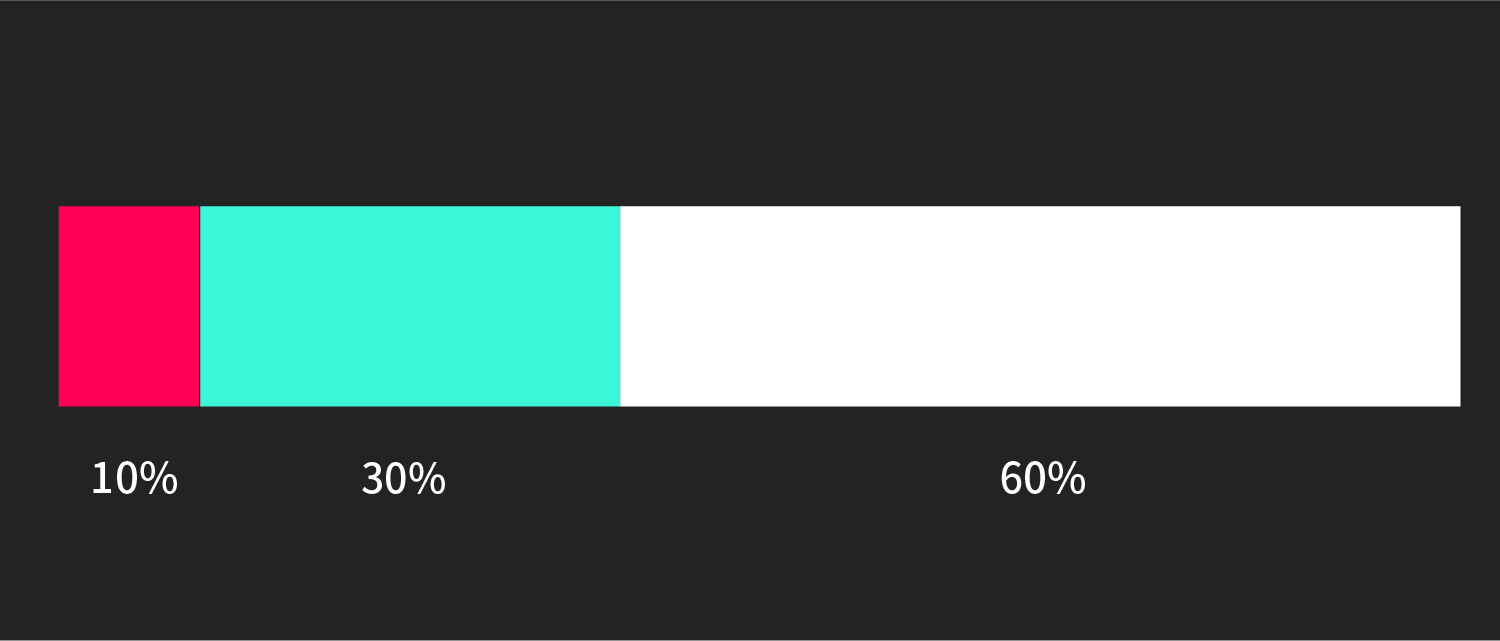
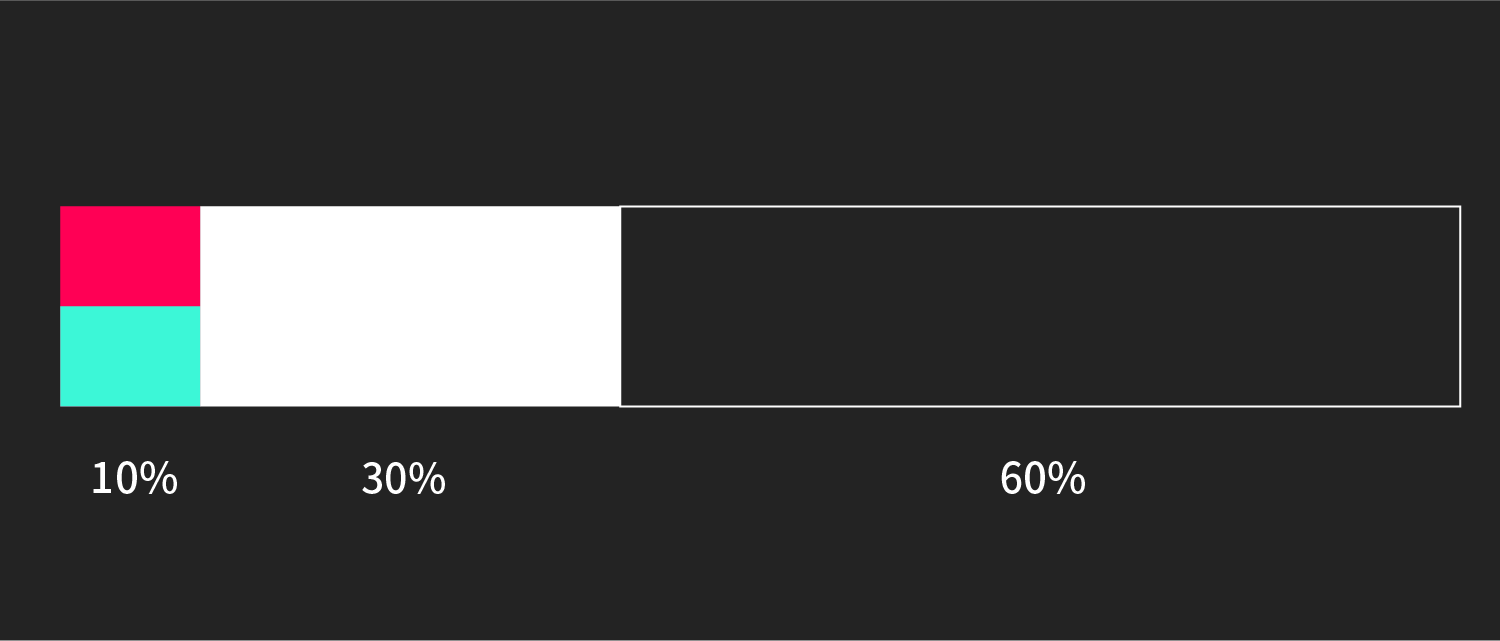
내용 업데이트

Changed region(s): [[0.0307, 0.312, 0.9813, 0.6552]]

diff --git a/color.html b/color.html
@@ -55,7 +55,7 @@
             <div class="article-title">
                 색</div>
             <div class="article-h1">
-                색은 눈이 가장 빠르게 받아들이는 시각 언어입니다. 사과가 엄청난 속도로 눈 앞을 지나가면 머릿속에는 불그스름한 무언가가 지나갔다고 기억하듯이 말입니다. 서비스에서는 특정 요소를 강조하거나 다른 요소와 확실하게 구분해야 할 필요가 있을 때 사용합니다.
+                색은 강한 자극을 주는 시각 언어입니다. 브랜딩에서 정의하는 색과 연관이 깊으며, 기능적으로 서비스 내부에서는 특정 요소를 강조하거나 다른 요소와 확실하게 구분해야 할 필요가 있을 때 사용합니다.
             </div>
             <img class="article-img" src="  ./img/design-system/color/color-main@2x.png">
 
@@ -67,9 +67,9 @@
             <img class="article-img" src="./img/design-system/color/brand@2x.png">
              <div class="article-h1">
                 <ul>
-                    <li><b>주색 Primary:</b> 색이 필요한 곳에 가장 많이 사용할 주요 색</li>
-                    <li><b>보조색 Secondary:</b> 특정 페이지에서 강조해야할 필요가 있을 때를 위한 색 </li>
-                    <li><b>흑백 Black&White:</b> 주로 배경과 글에 쓰이며, 브랜드 내의 가장 밝은 색과 가장 어두운 색</li>
+                    <li><b>주색:</b> 색이 필요한 곳에 가장 많이 사용할 주요 색</li>
+                    <li><b>보조색:</b> 특정 페이지에서 강조해야할 필요가 있을 때를 위한 색 </li>
+                    <li><b>흑백:</b> 주로 배경과 글에 쓰이며, 브랜드 내의 가장 밝은 색과 가장 어두운 색</li>
                 </ul>
             </div>
             
@@ -90,14 +90,14 @@
             <div class="article-title">
             색 비율</div>
             <div class="article-h1">
-             인테리어에서 사용되는 60-30-10 법칙을 활용하는 것도 좋습니다. 60%는 가장 넓은 면적에 사용되는 색을 사용하며 30%는 주색, 10%는 보조색을 사용합니다. (인테리어와는 공간의 맥락이 다르기 때문에 변형된 법칙입니다.)
+             인테리어에서 사용되는 60-30-10 법칙을 활용하는 것도 좋습니다. 60%는 배경색 30%는 글자 혹은 이미지와 같이 화면에서 반복적으로 쓰이는 색, 10%는 주색과 보조색을 사용합니다. (인테리어와는 공간의 맥락이 다르기 때문에 변형된 법칙입니다.)
             </div>
             <img class="article-img" src="./img/design-system/color/color-ratio@2x.png">
             
             <div class="article-title">
                 색의 요소</div>
             <div class="article-h1">
-                가장 직관적으로 구분할 수 있는 방법은 HSB 입니다. Hue(색조), Saturation(채도), Brightness(밝기)로 우리가 실제로 경험하는 색의 변화를 다루기에 가장 편한 개념입니다. 실제 코드에서는 편의를 위해 Hex와 RGBA로 작업하지만, 사용할 색을 정할 때는 HSB로 하는게 편합니다.
+                가장 직관적으로 구분할 수 있는 방법은 HSB 입니다. Hue(색조), Saturation(채도), Brightness(밝기)로 우리가 실제로 경험하는 색의 변화를 다루기에 가장 편한 개념입니다. 실제 코드에서는 편의를 위해 Hex와 RGBA로 작업하지만, 사용할 색을 정할 때는 HSB가 직관적입니다.
             </div>
 
             <img class="article-img" src="  ./img/design-system/color/elemental@2x.png">
@@ -106,26 +106,26 @@
             <div class="article-title">
                 한가지 색 다양하게 쓰기</div>
             <div class="article-h1">
-                여러 색을 사용하고 싶은데 그렇다고 무지개 색을 쓰기는 어렵습니다. 색조의 변화는 눈에 많은 부담을 주기 떄문에 되도록 <b>밝기 - 채도 - 색조</b> 순서로 다양한 색을 정하는 것이 좋습니다. 먼저 눈에 부담이 적은 밝기를 조절해봅니다.
+                여러 색을 사용하고 싶은데 그렇다고 무지개 색을 쓰기는 어렵습니다. 색조의 변화는 눈에 많은 부담을 주기 때문에 되도록 <b>밝기 - 채도 - 색조</b> 순서로 색을 사용하는 것이 좋습니다. 먼저 눈에 부담이 적은 밝기를 조절해봅니다.
             </div>
 
             <img class="article-img" src="./img/design-system/color/variation@2x.png">
 
             <div class="article-h1">
-                밝기 차이만으로도 쓸 수 있는 색이 늘어났습니다. 바로 디자인에 적용해도 큰 문제는 없지만 더 자연스럽고 풍부한 느낌을 주고 싶네요. 밝기는 조절했으니까 색조와 채도를 조절해야할 것 같네요. 완전히 다른 색조으로 느껴지지 않는 범위 안에서 두 수치를 조절해봤습니다.
+                밝기 차이만으로도 쓸 수 있는 색이 늘어났습니다. 바로 디자인에 적용해도 큰 문제는 없지만 더 자연스럽고 풍부한 느낌을 주고 싶네요. 밝기는 조절했으니까 색조와 채도를 조절해야할 것 같습니다. 완전히 다른 색조으로 느껴지지 않는 범위 안에서 두 수치를 조절해봤습니다.
             </div>
 
            <img class="article-img" src="./img/design-system/color/variation2@2x.png">
 
             <div class="article-h1">
-                더 풍부한 느낌이 듭니다! 밝기는 직관적으로 밝고 어둡게 하면 되는데 색조와 채도는 색의 변화에 어떤 영향을 끼칠까요?
+                더 풍부한 느낌이 듭니다. 밝기는 직관적으로 밝고 어둡게 하면 되는데 색조와 채도는 색의 변화에 어떤 영향을 끼칠까요?
             </div>
 
             <div class="article-title">
                 자연에서의 색 변화</div>
 
             <div class="article-h1">
-                실제 자연에서는 빛이 강해지면 물체의 채도가 약해집니다.(사과 바로 앞에 손전등을 댔을 때를 상상해보세요.) 색은 물질에 빛이 반사되서 보이는데 눈이 구분할 수 있는 범위를 넘어 반사량이 너무 많으면 하얗게, 반사량이 너무 적으면 어둡게 보입니다. 물체의 색이 밝아지면 <b>채도 감소, 밝기 증가</b> 어두워지면 <b>채도 증가, 밝기 감소</b>입니다.
+                실제 자연에서는 빛이 강해지면 물체의 채도가 약해집니다.(사과 바로 앞에 손전등을 댔을 때를 상상해보세요) 색은 물질에 빛이 반사되서 보이는데 눈이 구분할 수 있는 범위를 넘어 반사량이 너무 많으면 하얗게, 반사량이 너무 적으면 어둡게 보입니다. 물체의 색이 밝아지면 <b>채도 감소, 밝기 증가</b>이며 어두워지면 <b>채도 증가, 밝기 감소</b>인 것입니다.
             </div>
             <img class="article-img" src="./img/design-system/color/principle@2x.png">
             <img class="article-img" src="./img/design-system/color/reflection_absorption@2x.png">
@@ -133,7 +133,7 @@
             <div class="article-title">
                 색조 자체의 밝기</div>
             <div class="article-h1">
-                채도와 명도가 밝기에 어떻게 영향을 끼치는지는 알겠는데 색조 자체의 밝기를 알기가 쉽지 않습니다. 노란색은 밝아서 흰색 바탕에 쓰기 힘들고 파랑색은 어두워 검은 배경에 쓰기 어려운 것 정도는 알겠는데 다른 색들은 어떻게 해야할지 잘 모르겠네요. 스크린에서 보이는 색조 자체의 밝기는 어떻게 알 수 있을까요?
+                노란색은 밝아서 흰색 바탕에 쓰기 힘들고 파랑색은 어두워 검은 배경에 쓰기 어려운 것 정도는 관찰할 수 있지만 다른 색상간의 밝기 차이를 상상하기는 어렵습니다. 스크린에서 보이는 색조 자체의 밝기는 어떻게 알 수 있을까요?
             </div>
 
             <img class="article-img" src="./img/design-system/color/hue-luminosity@2x.png">
@@ -145,7 +145,7 @@
             <img class="article-img" src="./img/design-system/color/hue-luminosity-graph@2x.png">
 
             <div class="article-h1">
-                각 수치별로 그래프를 비교했을 때 Red Green Blue로 갈수록 어두어지고 Cyan Magenta Yellow 로 갈수록 밝아집니다. 매우 익숙한 느낌이 드네요. RGB와 CMY가 기준입니다. 스크린은 빛의 삼원색을 사용하기 때문에 색이 많이 섞일수록 흰색에 가까워지므로 원색이 가장 많이 섞인 CMY가 밝아보이는 것입니다.
+                각 수치별로 그래프를 비교했을 때 Red Green Blue로 갈수록 어두어지고 Cyan Magenta Yellow 로 갈수록 밝아집니다. RGB와 CMY가 기준으로 스크린은 빛의 삼원색을 사용하기 때문에 색이 많이 섞일수록 흰색에 가까워지므로 원색이 가장 많이 섞인 CMY가 밝아지는 것입니다.
             </div>
 
 

diff --git a/pattern.html b/pattern.html
@@ -1,7 +1,19 @@
 <!DOCTYPE html>
 <html xmlns="http://www.w3.org/1999/xhtml">
 
-<head><!-- Global site tag (gtag.js) - Google Analytics --> <script async src="https://www.googletagmanager.com/gtag/js?id=UA-50444148-1"></script> <script>   window.dataLayer = window.dataLayer || [];   function gtag(){dataLayer.push(arguments);}   gtag('js', new Date());    gtag('config', 'UA-50444148-1'); </script>
+<head>
+    <!-- Global site tag (gtag.js) - Google Analytics -->
+    <script async src="https://www.googletagmanager.com/gtag/js?id=UA-50444148-1"></script>
+    <script>
+        window.dataLayer = window.dataLayer || [];
+
+        function gtag() {
+            dataLayer.push(arguments);
+        }
+        gtag('js', new Date());
+        gtag('config', 'UA-50444148-1');
+
+    </script>
     <!-- meta preset-->
     <meta charset="utf-8">
     <meta name="viewport" content="user-scalable=no, initial-scale=1">
@@ -51,9 +63,9 @@
     <div id="nav"></div>
 
     <div class="article-outer">
-         <div id="submenu-theory"></div>
+        <div id="submenu-theory"></div>
         <div class="article-container">
-            
+
             <div class="article-title">
                 패턴</div>
             <div class="article-h1">
@@ -108,7 +120,7 @@
             <div class="article-title">
                 맥락 짜기</div>
             <div class="article-h1">
-                사용자가 속해 있는 상황을 정리합니다. 육하원칙에 따라 정리하는 것이 편리하며 웹, 모바일과 같이 환경이 제한적일 경우에는 다른 원칙보다 "무엇을 어떻게"가 중요합니다. 이 과정을 통해 '목적'을 정의합니다.
+                사용자가 속해 있는 상황을 정리합니다. 육하원칙에 따라 정리하는 것이 편리하며 웹, 모바일과 같이 환경이 제한적일 경우(스마트폰이나 모니터로 서비스를 이용하는 환경)에는 다른 원칙보다 "무엇을 어떻게"에 집중합니다. 이 과정을 통해 '목적'을 정의합니다.
             </div>
             <img class="article-img" src="./img/design-system/pattern/pattern_context@2x.png">
 
@@ -123,11 +135,11 @@
             <div class="article-title">
                 경우의 수</div>
             <div class="article-h1">
-                흐름에서 찾은 "단계별 목적"에 맞춰 발생할 수 있는 경우의 수를 예측합니다. 서비스에서는 사용자의 행동에 의해 많은 경우의 수가 발생합니다. 어떤 변수가 있는지 찾아낸 뒤 그에 따른 예측 결과를 정리합니다. 
+                흐름에서 찾은 "단계별 목적"에 맞춰 발생할 수 있는 경우의 수를 예측합니다. 서비스에서는 사용자의 행동에 의해 많은 경우의 수가 발생합니다. 단계별로 어떤 변수가 있는지 찾아내고 예측되는 결과를 정리합니다.
             </div>
             <img class="article-img" src="./img/design-system/pattern/pattern_variable@2x.png">
-            
-            
+
+
             <div class="article-title">
                 알고리즘 짜기(선택적)</div>
             <div class="article-h1">
@@ -139,26 +151,30 @@
             <div class="article-title">
                 형태 짜기</div>
             <div class="article-h1">
-                "흐름"과 "경우의 수"를 기준으로 페이지를 제작합니다. 예측되는 화면 사이즈에 어떤 기능을 수행할지 상상합니다. 해당 영역에 가장 적합한 컴포넌트를 적용한뒤 변수에 따른 변화를 정합니다.
-                
-                지속적으로 검색할 수 있도록 언제 어디서나 검색을 발견할 수 있어야합니다.
-                
-                형태를 짠 이후에는 상태에 대해서 표시되는 방식을 정합니다. 입력-출력 만약 검색이 중요하다면 검색을 계속 할 수 있는 형태여야 합니다. 언제 어디서나 검색을 발견할 수 있어야합니다.
-                기본 시나리오로 텍스트 필드에 자신의 단서를 입력하고 서비스는 그에 대한 피드백을 줍니다.
+                "흐름"과 "경우의 수"를 기준으로 페이지를 제작합니다. 기준이 되는 화면 사이즈에서 영역별로 달성해야할 단계별 목적을 지정합니다. 해당 영역에 단계별 목적을 달성할 수 있는 적합한 컴포넌트를 적용한뒤 변수를 고려하여 제작합니다.
             </div>
-            
+
             <img class="article-img" src="./img/design-system/pattern/pattern_conceptbox@2x.png">
-            
-            
-            
-             <div class="article-title">
+
+            <div class="article-h1">
+                <ul>
+                    <li><b>단어 입력: </b> 타 플랫폼 및 서비스에서 반복적으로 사용되는 컴포넌트로 상단 고정</li>
+                    <li><b>결과 확인:</b> 최대한 많은 결과를 보여주기 위해 넓은 영역 지정</li>
+                    <li><b>선택 후 재생:</b> 포스터와 제목 만으로도 영화를 선택하고 재생할 수 있지만 더 자세한 내용을 확인하고 재생하는 경우를 위해 최대한 많은 정보를 줄 수 있도록 별도 페이지 제작</li>
+
+                </ul>
+            </div>
+
+
+
+            <div class="article-title">
                 레이아웃 짜기</div>
             <div class="article-h1">
-                각 페이지에서 필요한 목적을 달성하기 위해 컴포넌트를 배치합니다. 지속적으로 검색할 수 있도록 언제 어디서나 검색을 발견할 수 있어야합니다. 형태를 짠 이후에는 상태에 대해서 표시되는 방식을 정합니다. 입력-출력 만약 검색이 중요하다면 검색을 계속 할 수 있는 형태여야 합니다. 언제 어디서나 검색을 발견할 수 있어야합니다.
+                형태에 대한 개념이 정리가 된 뒤에는 시각적인 컴포넌트를 배치합니다. 배치만으로도 GUI 디자인이 완성됩니다.
             </div>
-             <img class="article-img" src="./img/design-system/pattern/pattern_visualize@2x.png">
-            
-            
+            <img class="article-img" src="./img/design-system/pattern/pattern_visualize@2x.png">
+
+
 
             <div class="sidebar-con">
                 <div class="sidebar-wrapper">
@@ -170,21 +186,21 @@
                     </div>
                 </div>
             </div>
-            
-             <!--pagination -->
-                <hr>
-                <div class="pagination-left" onclick="location.href='preference.html';">
-                   <img class="pagination-icon" src="./img/icon/icon_previous.svg">
-                    <span class="pagination-text">사전 설정</span>
-                </div>
 
-                <div class="pagination-right" onclick="location.href='component.html';">
-                    <span class="pagination-text">컴포넌트</span>
-                    <img class="pagination-icon" src="./img/icon/icon_next.svg">
-                </div>
-            
-            
-            
+            <!--pagination -->
+            <hr>
+            <div class="pagination-left" onclick="location.href='preference.html';">
+                <img class="pagination-icon" src="./img/icon/icon_previous.svg">
+                <span class="pagination-text">사전 설정</span>
+            </div>
+
+            <div class="pagination-right" onclick="location.href='component.html';">
+                <span class="pagination-text">컴포넌트</span>
+                <img class="pagination-icon" src="./img/icon/icon_next.svg">
+            </div>
+
+
+
         </div>
     </div>
     <script src="js/index.js" type="text/javascript" charset="utf-8"></script>

diff --git a/service-design.html b/service-design.html
@@ -70,7 +70,7 @@
                <div class="article-title">
                 디자인 툴</div>
             <div class="article-h1">
-                디자이너의 역할이 확장되면서 필요한 기능에 집중한 툴들이 많이 개발되었습니다. 어느정도 공부가 필요하던 이전과 다르게 점점 더 쉽고 편하게 서비스를 디자인할 수 있도록 발전하고 있습니다. 
+                디자이너의 역할이 확장되면서 단계별로 필요한 기능에 특화된 툴이 많이 개발됐습니다.
             </div>
 
                 <div class="wrapper" style="margin:10px 0px;float:none;">
@@ -115,19 +115,19 @@
              
                 <div class="article-h1" style="width:100%;float:left;">
                 <ul>
-                    <li><b>Abstract:</b> 원본을 유지하면서 다양한 버전을 만들 수 있는 툴</li>
+                    <li><b>Abstract:</b> 원본을 유지하면서 다양한 버전을 관리할 수 있는 툴</li>
                     <li><b>Photoshop:</b> 디지털 이미지와 관련된 거의 모든 작업을 할 수 있는 툴</li>
-                    <li><b>Sketch:</b> UI 디자인에 필요한 기능에 특화된 툴</li>
+                    <li><b>Sketch:</b> GUI 디자인에 필요한 기능에 특화된 툴</li>
                     <li><b>Zeplin:</b> 포토샵, 스케치와 연동되며 개발에 필요한 정보를 쉽게 확인할 수 있는 툴</li>
                     <li><b>Invision:</b> 웹, 모바일 사용 패턴을 미리 만들어볼 수 있는 툴</li>
-                    <li><b>Framer:</b> 인비전보다 더 자세한 움직임을 만들 수 있는 코드 기반 툴</li>
+                    <li><b>Framer:</b> 인비전보다 더 자세한 사용 패턴을 만들 수 있는 코드 기반 툴</li>
                 </ul>
             </div>
                 
                  <div class="article-title">
                 폴더</div>
             <div class="article-h1">
-                기준 없이 폴더를 만들면 파일이 어디에 있는지 찾기가 어려워지고 중복된 파일이 많아집니다. GUI, 프로토타이핑, 마케팅 등에 사용할 용도로 정한 폴더 구조입니다.
+                기준 없이 폴더를 사용하다 보면 파일을 찾기 어려워지고 중복된 파일이 많아집니다. 프로젝트에 사용될 GUI, 프로토타이핑, 마케팅 등 용도에 맞춰 정리한 폴더 구조입니다.
             </div>
             <img class="article-img" src=" ./img/design-system/folder.png">
 
@@ -135,7 +135,7 @@
                 <ul>
                     <li><b>design:</b> 시각적인 구현과 연관된 모든 것들</li>
                     <li><b>doc:</b> 시나리오, 조사 결과 등 내외부에서 활용되는 모든 종류의 문서</li>
-                    <li><b>resource:</b> 문서와 디자인에 사용될 수 있는 외부 자료</li>
+                    <li><b>resource:</b> 문서와 디자인에 사용될 수 있는 모든 외부 자료</li>
                 </ul>
             </div>
 

diff --git a/design-thinking.html b/design-thinking.html
@@ -56,7 +56,7 @@
             <div class="article-title">
                 디자인 사고</div>
             <div class="article-h1">
-                디자인 사고는 창조할 때 생각하는 과정입니다. 관찰을 통해 문제를 정의하고 실험을 통해 성공과 실패를 반복하며 발전해나가는 방법론입니다. 이 과정에서 정리한 내용이 여러 가능성 중에서 가장 적합한 방법을 선택하는 기준이 됩니다.<br><br> 주관, 느낌, 번뜩이는 아이디어, 천재와 같은 개념으로 오해받는 창의성을 명확하게 다루기 위한 접근 방식으로 '자신이 만들고 싶은 것'이 무엇이며 필요한 정보들이 무엇인지 명확하게 파악할 수 있습니다. 과정을 눈에 보이도록 기록해 각 단계마다 필요한 것들을 나 혹은 구성원에게 명확하게 요구할 수 있습니다.
+                디자인 사고는 무언가를 창조할 때 생각하는 과정을 뜻합니다. 관찰을 통해 문제를 정의하고 실험을 통해 성공과 실패를 반복하며 발전해나가는 방법론으로 여러 가능성 중 적합한 방법을 선택하는 기준이 됩니다.<br><br> 주관, 느낌, 번뜩이는 아이디어, 천재와 같은 개념으로 오해받는 창의성을 명확하게 다루기 위한 접근 방식으로 '자신이 만들고 싶은 것'이 무엇이며 필요한 정보들이 무엇인지 명확하게 파악할 수 있습니다. 과정을 눈에 보이도록 기록해 각 단계마다 필요한 것들을 나 혹은 구성원에게 명확하게 요구할 수 있습니다.
             </div>
             <img class="article-img" src="./img/design-system/design_thinking/thinking_main@2x.png">
 
@@ -127,8 +127,8 @@
             <div class="article-h1">
                 <ul>
                     <li><b>리소스 체크</b></li>
-                    <li><b>버전 관리</b></li>
-                    <li><b>스펙</b></li>
+                    <li><b>서비스 버전 관리</b></li>
+                    <li><b>개발 스펙</b></li>
                     <li><b>일정</b></li>
                     <li><b>제품 로드맵</b></li>
                 </ul>
@@ -153,7 +153,7 @@
             <div class="article-title">
                 결과</div>
             <div class="article-h1">
-                어떤 결과가 나왔는지 확인하는 단계입니다. 이해 단계에서 세웠던 가설에 따라 선택한 방법이 의도한대로 작동했는지 확인합니다. 만약 의도한 결과가 나오지 않았다면, 문제가 있다고 의심되는 단계부터 다시 시작합니다.
+                어떤 결과가 나왔는지 확인하는 단계입니다. 이해 단계에서 세웠던 가설에 따라 선택한 방법이 의도한대로 작동했는지 확인합니다. 의도한 결과가 나오지 않았다면 문제가 있다고 의심되는 단계를 찾고 사고 과정을 반복합니다.
             </div>
             <img class="article-img" src="./img/design-system/design_thinking/thinking_result@2x.png">
 

diff --git a/about.html b/about.html
@@ -57,7 +57,7 @@
                 </div>
 
                 <div class="article-h1">
-                    UX가 급속도로 성장하면서 다양한 디자인 원리에 대한 논의가 활발히 진행되고 있습니다. 모바일 GUI의 패턴은 거의 완성에 가까워진 것처럼 느껴집니다. 하지만 머티리얼 디자인으로 모든 모바일 앱을 만들 수 없듯이 변화된 맥락에 알맞은 새로운 디자인 언어가 필요해질 것입니다. 이때 가장 적절한 디자인을 만들기 위해서는 디자인 언어 원리를 이해해야 한다고 생각합니다.<br><br>디자인을 배우는 방법은 '흉내'와 '반복'이었습니다. 툴의 숙련도가 중요했으며 디자인 이론이 구체적으로 결과물에 어떻게 적용되는지 이해하기 어려웠습니다. 게슈탈트 이론과 모바일 앱 GUI 디자인과는 거리는 거의 태양과 해왕성 정도로 멀리 떨어져 있는 것처럼 느껴졌습니다. 이 공간에서 제가 디자인을 알아가면서 겪었던 문제들을 겪지 않고 디자인을 이해하는 데 도움이 되었으면 좋겠습니다.
+                    크게 성장한 IT 기업이 많아지면서 UX와 디자인에 대한 논의가 활발해졌습니다. 특히 모바일 GUI 패턴은 거의 완성된 것처럼 느껴집니다. 하지만 머티리얼 디자인이나 iOS 디자인 스타일로 모든 모바일 앱을 만들 수 없듯이 변화된 맥락에 알맞은 새로운 디자인 언어가 필요할 것입니다. 이때 디자이너가 가장 적절한 디자인을 선택하기 위해서는 디자인 언어의 원리를 이해해야 한다고 생각합니다.<br><br>디자인을 배우는 방법은 '흉내'와 '반복'이었습니다. 툴의 숙련도가 중요했으며 디자인 이론이 구체적으로 결과물에 어떻게 적용되는지 이해하기 어려웠습니다. 게슈탈트 이론과 모바일 앱 GUI 디자인과는 거리는 거의 태양과 해왕성 정도로 멀리 떨어져 있는 것처럼 느껴졌습니다. 이 공간에서 제가 디자인을 알아가면서 겪었던 문제들을 겪지 않고 디자인을 이해하는 데 도움이 되었으면 좋겠습니다.
                 </div>
 
                 <div class="article-h1">

diff --git a/component.html b/component.html
@@ -57,7 +57,7 @@
             <div class="article-title">
                 컴포넌트</div>
             <div class="article-h1">
-                컴포넌트는 사용자와 상호작용하는 기본적인 형태로 어느 공간에서도 기능을 수행할 수 있는 최소한의 단위입니다. 디자인 원자(Atoms)들로 구성되며 사용자의 반응과 행동을 고려해야합니다. 반복적으로 사용되어 사용자에게 익숙한 컴포넌트가 있으며 목적을 위해 재구성되거나 새로 만들어지는 컴포넌트가 있습니다.
+                컴포넌트는 사용자와 상호작용하는 기본적인 형태로 어느 공간에서도 기능을 수행할 수 있는 최소한의 단위입니다. 디자인 원자로 구성되며 사용자의 반응과 행동을 고려합니다. 반복적으로 사용되어 사용자에게 익숙한 컴포넌트가 있으며 목적을 위해 재구성되거나 새로 만들어지는 컴포넌트가 있습니다.
             </div>
             <img class="article-img" src="./img/design-system/component/component_main@2x.png">
 
@@ -132,7 +132,7 @@
                 효과 확인하기
             </div>
             <div class="article-h1">
-                 "컨텐츠 중에서 하나 골라서 재생하기" 목적을 달성하기 위해 어떤 것을 강조하고 어떤 것을 생략할지 고민하면서 시각 원리에 따라 위치와 그래픽 스타일을 변경합니다. 디자인 요소는 주변에 어떤 요소가 있느냐에 따라 효과가 다릅니다.  이 과정에서는 실제로 사용될 환경에 배치해 형태가 의도한대로 보이고 읽히는지 확인해야합니다.
+                 "컨텐츠 중에서 하나 골라서 재생하기" 목적을 달성하기 위해 어떤 것을 강조하고 어떤 것을 생략할지 고민하면서 시각 원리에 따라 위치와 그래픽 스타일을 변경합니다. 디자인 요소는 주변에 어떤 요소가 있느냐에 따라 효과가 다릅니다.  이 과정에서는 실제로 사용될 환경에 배치해 형태가 의도한대로 보이고 읽히는지 확인합니다.
             </div>
              <img class="article-img" src="./img/design-system/component/component_remove@2x.png">
 

diff --git a/typography.html b/typography.html
@@ -62,7 +62,7 @@
         <div class="article-title">
             서체 고르기</div>
         <div class="article-h1">
-            스크린에서 쓰이는 서체는 어디에나 쓸 수 있어야 합니다. 스마트폰, 스마트워치, 모니터, 티비 등 다양한 기기에 사용할 수 있어야 하며 현실적으로 사용 가능한 한글 서체는 OS 기본 서체인 애플 SD 고딕 네오, 본고딕과 오픈 소스인 나눔 글꼴, 스포카 한 산스입니다.
+            스크린에서는 스마트폰, 스마트워치, 모니터, 티비 등 다양한 기기에 사용할 수 있어야 합니다. 현실적으로 사용 가능한 한글 서체는 OS 기본 서체인 애플 SD 고딕 네오, 본고딕과 오픈 소스인 나눔 글꼴, 스포카 한 산스입니다.
         </div>
 
         <img class="article-img" src="  ./img/design-system/typography/web_font@2x.png">
@@ -95,7 +95,7 @@
         </div>
         <img class="article-img" src="  ./img/design-system/typography/example_edit@2x.png">
         <div class="article-h1">
-            훨씬 읽기 편해졌네요! 본문의 행간은 18 x 1.6 = 28.8 반올림해서 29로 조절했습니다. 인쇄 매체에서는 한 줄에 들어가는 글 개수가 65~75자가 들어가는 것을 권장하지만 폭이 좁은 스크린에서는 서체 크기가 더 중요하기 때문에 따로 조절하지 않고 줄 바꿈을 하는 편입니다.
+            훨씬 읽기 편해졌습니다. 본문의 행간은 18 x 1.6 = 28.8 반올림해서 29로 조절했습니다. 인쇄 매체에서는 한 줄에 들어가는 글 개수가 65~75자가 들어가는 것을 권장하지만 폭이 좁은 스크린에서는 서체 크기가 더 중요하기 때문에 따로 조절하지 않고 줄 바꿈을 하는 편입니다.
         </div>
 
 

diff --git a/composition.html b/composition.html
@@ -59,7 +59,7 @@
                디자인 구조</div>
 
             <div class="article-h1">
-                디자인은 어떻게 구성될까요? 이해하기 쉬운 방식으로 Bradfrost에서 제시한 Atomic Design 방법론이 있습니다. 작은 단위가 합쳐져 전체가 되는 방식으로 어떤 디자인 요소가 있는지 이해하는데 도움이 됩니다.
+                디자인은 어떻게 구성될까요? 이해하기 쉬운 방식으로 Bradfrost에서 제시한 Atomic Design 방법론이 있습니다. 작은 단위가 합쳐져 전체가 되는 방식으로 웹,모바일 서비스가 어떤 디자인 요소로 구성되는지 이해하는데 도움이 됩니다.
             </div>
 
             <img class="article-img" src="./img/design-system/design-elemental/atomic@2x.png">
@@ -86,7 +86,7 @@
 
 
             <div class="article-title">구조</div>
-            <div class="article-h1">1-2가지 이상의 목적을 달성하기 위해 원자, 분자, 유기체가 구조적으로 배치한 형태<br>(메인페이지, 검색페이지 등과 같은 페이지) </div>
+            <div class="article-h1">1-2가지 이상의 목적을 달성하기 위해 원자, 분자, 유기체가 구조적으로 배치한 형태<br>(메인페이지, 검색페이지 등과 같은 패턴에 속한 페이지) </div>
 
             <img class="article-img" src="./img/design-system/design-elemental/structure@2x.png">
             

diff --git a/preference.html b/preference.html
@@ -59,7 +59,7 @@
             <div class="article-title">
                 단위</div>
             <div class="article-h1">
-                스마트폰, 모니터, 티비 등 스크린의 크기나 픽셀 밀도가 같지 않기 때문에 기본 단위는 곱하거나 나누어도 정수가 될 수 있는 짝수를 사용합니다. 짝수 중에서도 8 포인트 그리드 시스템이 널리 쓰이고 있습니다.<br> iOS의 경우 375, 750 등 8로 나뉘지 않기 때문에 그리드를 완벽하게 적용하긴 어렵습니다.<br> (2pt나 4pt는 단위가 너무 작아 결국 8pt를 기준으로 작업하는 경우가 많았습니다)
+                스마트폰, 모니터, 티비 등 스크린의 크기나 픽셀 밀도가 같지 않기 때문에 기본 단위는 곱하거나 나누어도 정수가 될 수 있는 짝수를 사용합니다. 짝수 중에서도 8 포인트 그리드 시스템이 널리 쓰이고 있습니다.<br> iOS의 경우 375, 750 등 8로 나뉘지 않기 때문에 그리드를 완벽하게 적용하긴 어렵습니다.<br> (2pt나 4pt는 단위가 너무 작아 8pt로 작업하는 것이 효율적이었습니다)
             </div>
             <img class="article-img" src=" ./img/design-system/unit@2x.png">
 
